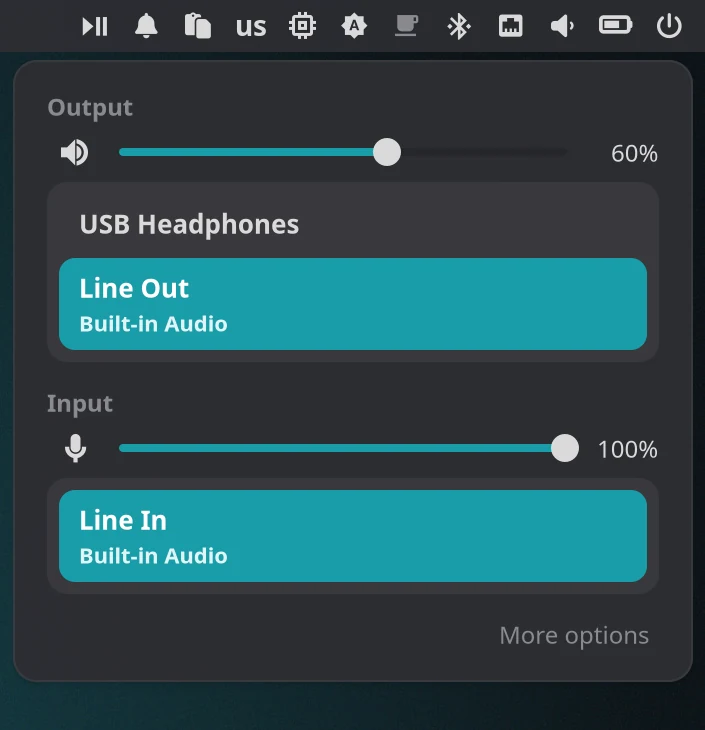
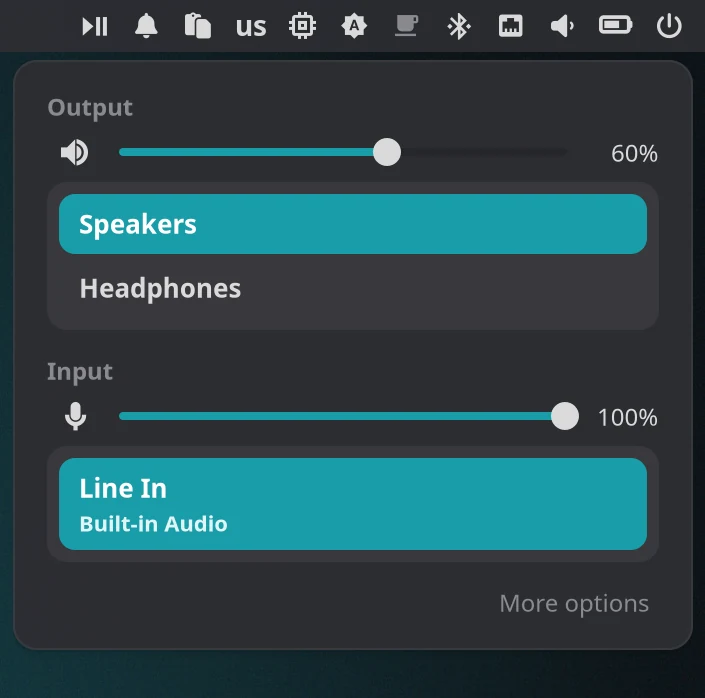
Component pages: all images as one row of equal thumbnails; card thumbnails; audio retake (#37)
On the component pages with more than one image, a big image with a small thumbnail under it read as a single image. Now every image shows the same way.

- **One row of equal thumbnails:** a page with `more_shots` shows all its images, the main one first, in a row with a caption under each.
  - Each image is fitted inside a 16:10 box, so a close-up and a full screen get the same box.
  - The row runs past the text column, up to the site's width. That gives about 280–370 px per thumbnail: three in a row on a desktop, two on a tablet, one per line on a phone.
  - Each thumbnail opens in the lightbox, whose arrows go through all of a page's images.
  - Thumbnails from images over 720 px wide are resized to 720 px JPEGs, and the link opens the original. The deploy's standard Hugo can read WebP but not write it.
  - A page with a single image stays as it was.
- **Captions:** the main image's caption is a new per-language `shot_caption`. `check-components.py` requires it in every language on a page with `more_shots`, and rejects it elsewhere. The other images use their `more_alts`. Captions are added for dock, bluetooth, lock, greeter and session-menu.
- **check-layout.py**, at 1200 and 390 px:
  - a row's thumbnails must be one size, each at least 200 px wide;
  - the Dock and login pages must have a row;
  - no page may scroll sideways.
[…]

diff --git a/layouts/components/page.html b/layouts/components/page.html
@@ -9,30 +9,39 @@
 <div class="content">
 <article class="component component--page">
 <h2 class="component__name">{{ partial "icon.html" $c.icon }} {{ $c.name }}</h2>
-{{- /* The page's own crop (crop = true: images/components/<id>.webp), else the gallery's shot */}}
+{{- /* The page's own crop (crop = true: images/components/<id>.webp), else the gallery's shot. With more_shots,
+       every image, the main one first, is an equal thumbnail with its caption, in one row; a thumbnail wider than
+       720px is a resized JPEG (the deploy's standard Hugo can read WebP but not write it), the link opens the original */}}
 {{- $main := "" }}
 {{- if $c.crop }}{{ $main = printf "images/components/%s.webp" $c.id }}{{ else if $c.shot }}{{ $main = printf "images/shots/%s.webp" $c.shot }}{{ end }}
+{{- $shots := slice }}
 {{- with $main }}
-{{- with resources.Get . }}
-{{- $img := . | fingerprint }}
+{{- with resources.Get . }}{{ $shots = $shots | append (dict "img" (. | fingerprint) "alt" $c.name "caption" $c.shot_caption) }}
+{{- else }}{{ errorf "data/components.toml: %s doesn't exist" . }}{{ end }}
+{{- end }}
+{{- range $i, $name := $c.more_shots }}
+{{- with resources.Get (printf "images/components/%s.webp" $name) }}
+{{- $alt := index $c.more_alts $i }}
+{{- $shots = $shots | append (dict "img" (. | fingerprint) "alt" $alt "caption" $alt) }}
+{{- else }}{{ errorf "data/components.toml: images/components/%s.webp doesn't exist" $name }}{{ end }}
+{{- end }}
+{{- if gt (len $shots) 1 }}
+<div class="component__shots">
+{{- range $shots }}
+{{- $thumb := .img }}{{ if gt .img.Width 720 }}{{ $thumb = .img.Resize "720x jpg q85" }}{{ end }}
+<figure class="component__thumb"><a href="{{ .img.RelPermalink }}" data-lightbox><img src="{{ $thumb.RelPermalink }}" width="{{ $thumb.Width }}" height="{{ $thumb.Height }}" alt="{{ .alt }}" decoding="async"></a><figcaption>{{ .caption }}</figcaption></figure>
+{{- end }}
+</div>
+{{- else }}
+{{- range $shots }}
+{{- $img := .img }}
 {{- /* A crop is taken at scale 2: shown at half its pixels, its real size on screen */}}
 {{- if $c.crop }}
 <a class="component__shot component__shot--crop" href="{{ $img.RelPermalink }}" data-lightbox><img src="{{ $img.RelPermalink }}" srcset="{{ $img.RelPermalink }} 2x" width="{{ div $img.Width 2 }}" height="{{ div $img.Height 2 }}" alt="{{ $c.name }}" decoding="async"></a>
 {{- else }}
 <a class="component__shot" href="{{ $img.RelPermalink }}" data-lightbox><img src="{{ $img.RelPermalink }}" width="{{ $img.Width }}" height="{{ $img.Height }}" alt="{{ $c.name }}" decoding="async"></a>
 {{- end }}
-{{- else }}{{ errorf "data/components.toml: %s doesn't exist" . }}{{ end }}
 {{- end }}
-{{- with $c.more_shots }}
-<div class="component__more">
-{{- range $i, $name := . }}
-{{- with resources.Get (printf "images/components/%s.webp" $name) }}
-{{- $img := . | fingerprint }}
-{{- $alt := index $c.more_alts $i }}
-<a href="{{ $img.RelPermalink }}" data-lightbox><img src="{{ $img.RelPermalink }}" width="{{ $img.Width }}" height="{{ $img.Height }}" alt="{{ $alt }}" title="{{ $alt }}" loading="lazy" decoding="async"></a>
-{{- else }}{{ errorf "data/components.toml: images/components/%s.webp doesn't exist" $name }}{{ end }}
-{{- end }}
-</div>
 {{- end }}
 <div class="component__body">
 {{ $.RenderString (dict "display" "block") $c.text }}

diff --git a/assets/css/site.css b/assets/css/site.css
@@ -151,10 +151,14 @@ h2 { font-weight: 600; }
 .component__keys { color: var(--ink); font-size: .85rem; }
 .component__meta { color: var(--muted); font-size: .75rem; }
 .component__shot--crop img { width: auto; max-width: 100%; }
-.component__more { display: flex; flex-wrap: wrap; gap: .5rem; margin: .5rem 0 1rem; }
-.component__more a { flex: 0 1 8rem; border: 1px solid var(--line-strong); border-radius: var(--frame); overflow: hidden; background: var(--surface); }
-.component__more a:hover { border-color: var(--line-hover); }
-.component__more img { display: block; width: 100%; height: 5.5rem; object-fit: cover; object-position: top; }
+/* A page's images in one row: wider than the text column, up to the site's width, never past the window */
+.component__shots { display: grid; grid-template-columns: repeat(auto-fill, minmax(min(100%, 280px), 1fr)); gap: .75rem;
+  width: max(100%, min(1100px, calc(100vw - 2 * var(--gutter) - 16px))); margin: 0 0 1.25rem; }
+.component__thumb { margin: 0; }
+.component__thumb a { display: block; aspect-ratio: 16 / 10; overflow: hidden; border: 1px solid var(--line-strong); border-radius: var(--frame); background: var(--surface); }
+.component__thumb a:hover { border-color: var(--line-hover); }
+.component__thumb img { display: block; width: 100%; height: 100%; object-fit: contain; }
+.component__thumb figcaption { margin-top: .4rem; color: var(--muted); font-size: .8rem; line-height: 1.4; }
 .component:not(:has(.component__shot)) { grid-template-columns: 1fr; }
 @media (max-width: 40rem) { .component { grid-template-columns: 1fr; } }
 
@@ -388,6 +392,9 @@ html.lb-open { overflow: hidden; }
 a.cgrid__name { color: var(--ink); text-decoration: underline; text-decoration-color: var(--line-strong); text-underline-offset: 3px; }
 a.cgrid__name:hover { color: var(--accent); text-decoration-color: currentColor; }
 .cgrid__keys { color: var(--ink-soft); font-size: 12px; }
+.cgrid__shot { display: block; align-self: flex-start; max-width: 100%; border: 1px solid var(--line-strong); border-radius: var(--frame); overflow: hidden; }
+.cgrid__shot:hover { border-color: var(--line-hover); }
+.cgrid__shot img { display: block; max-width: 100%; max-height: 10rem; width: auto; height: auto; }
 .crumbs { margin: 0 0 .5rem; font-size: .85rem; }
 .component--page { display: block; padding-top: 0; border-bottom: 0; }
 .component--page .component__shot { display: block; margin: 0 0 1rem; }

diff --git a/layouts/_shortcodes/components.html b/layouts/_shortcodes/components.html
@@ -1,6 +1,6 @@
 {{- /* The Components page's list: data/components.toml, by group, as the home page's grid. A card links to the
        component's page (or, with `with`, to the page it shares); a card with neither is part of
-       swaydesk-desktop, and says so. A group with a metapackage ([groups.<group>]) says so under its title. */ -}}
+       swaydesk-desktop, and says so, with its crop (crop = true) as a thumbnail. A group with a metapackage ([groups.<group>]) says so under its title. */ -}}
 {{- $page := .Page }}
 {{- $all := (partialCached "data.html" $page).components.components }}
 {{- $lang := lower $page.Language.Lang }}
@@ -23,6 +23,13 @@
 <span class="cgrid__text">{{ $t.text | markdownify }}</span>
 {{- with $t.keys }}<span class="cgrid__keys">{{ . | markdownify }}</span>{{ end }}
 {{- if not $target }}<span class="cgrid__keys">{{ i18n "comp_in_desktop" | safeHTML }}</span>{{ end }}
+{{- /* A card without a page shows its crop (crop = true) as a thumbnail, in the lightbox */}}
+{{- if and (not $target) .crop }}
+{{- with resources.Get (printf "images/components/%s.webp" .id) }}
+{{- $img := . | fingerprint }}
+<a class="cgrid__shot" href="{{ $img.RelPermalink }}" data-lightbox><img src="{{ $img.RelPermalink }}" width="{{ div $img.Width 2 }}" height="{{ div $img.Height 2 }}" alt="{{ $t.name }}" loading="lazy" decoding="async"></a>
+{{- else }}{{ errorf "data/components.toml: images/components/%s.webp doesn't exist" .id }}{{ end }}
+{{- end }}
 </li>
 {{- end }}{{ end }}
 </ul>

diff --git a/scripts/check-layout.py b/scripts/check-layout.py
@@ -6,7 +6,10 @@ per-distro sections as tabs (static/js/install.js), and every hidden panel is st
 page at 1200 and 390 px and checks that:
 - every tab panel's first block starts at the same distance from the tabs as the first panel's;
 - every copy button, in every tab panel, is as tall as the code field next to it;
-- each page reports at least two tabs and one copy block (none means the check measured nothing).
+- each page reports at least two tabs and one copy block (none means the check measured nothing);
+- a component page's row of images (component__shots) has thumbnails of one size, each at least 200px wide,
+  and the Dock and login pages, which have more_shots, have one;
+- no page scrolls sideways.
 Without pages, it checks Install and three component pages (a plain install, start_text, a multi-line start) in
 the three languages. The pages are served from a copy of <public dir> on 127.0.0.1; Chrome runs with a temporary
 HOME and no display or session bus. A missing page, a missing Chrome or a page that doesn't report is an error.
@@ -27,6 +30,9 @@ WIDTHS = (1200, 390)
 PAGES = [f"{lang}/{page}" for lang in ("pt-br", "en-us", "es")
          for page in ("install", "components/dock", "components/greeter", "components/screenshot")]
 TOLERANCE = 1  # px: rounding of fractional layout
+MIN_THUMB = 200  # px: narrower than this, a thumbnail's content can't be read
+# Pages that have more_shots, so a row of images: none found means the template or a class changed
+EXPECT_ROWS = ("components/dock", "components/greeter")
 
 MEASURE = r"""window.addEventListener("load", () => {
   const out = {tabs: [], cmds: []};
@@ -53,6 +59,13 @@ MEASURE = r"""window.addEventListener("load", () => {
     });
   });
   cmds(document);
+  // The component pages' rows of images: each thumbnail's box (its link), and whether the page scrolls sideways
+  out.rows = Array.from(document.querySelectorAll(".component__shots")).map((row) =>
+    Array.from(row.querySelectorAll(".component__thumb > a")).map((a) => {
+      const r = a.getBoundingClientRect();
+      return {w: Math.round(r.width), h: Math.round(r.height)};
+    }));
+  out.overflow = document.documentElement.scrollWidth - document.documentElement.clientWidth;
   const el = document.createElement("pre");
   el.id = "__layout";
   el.textContent = JSON.stringify(out);
@@ -86,6 +99,18 @@ def problems(page, width, data):
             if abs(tab["gap"] - first) > TOLERANCE:
                 errors.append(f"{page} @{width}: tab {tab['name']} opens {tab['gap']}px below the tabs, "
                               f"{tabs[0]['name']} {first}px")
+    rows = data.get("rows", [])
+    if page.endswith(EXPECT_ROWS) and not any(rows):
+        errors.append(f"{page} @{width}: no row of images (component__shots)")
+    for row in rows:
+        sizes = sorted({(t["w"], t["h"]) for t in row}, reverse=True)
+        if any(abs(a - c) > TOLERANCE or abs(b - d) > TOLERANCE for (a, b) in sizes for (c, d) in sizes):
+            errors.append(f"{page} @{width}: the row's thumbnails differ in size "
+                          f"({sizes[0][0]}x{sizes[0][1]} and {sizes[-1][0]}x{sizes[-1][1]})")
+        for w in sorted({t["w"] for t in row if t["w"] < MIN_THUMB}):
+            errors.append(f"{page} @{width}: a thumbnail is {w}px wide (at least {MIN_THUMB}px)")
+    if data.get("overflow", 0) > TOLERANCE:
+        errors.append(f"{page} @{width}: the page scrolls sideways ({data['overflow']}px wider than the window)")
     for cmd in data["cmds"]:
         if abs(cmd["btn"] - cmd["pre"]) > TOLERANCE:
             errors.append(f"{page} @{width}: a copy button is {cmd['btn']}px high, its field {cmd['pre']}px")

diff --git a/scripts/test_check_layout.py b/scripts/test_check_layout.py
@@ -49,13 +49,47 @@ class CheckLayoutTests(unittest.TestCase):
     def tearDown(self):
         self.tmp.cleanup()
 
-    def run_on(self, sibling="0", align="stretch", extra="", first="A", html=None):
-        page = self.root / "en-us/install"
+    def run_on(self, sibling="0", align="stretch", extra="", first="A", html=None, path="en-us/install", body=""):
+        page = self.root / path
         page.mkdir(parents=True, exist_ok=True)
         css = CSS % {"sibling": sibling, "align": align, "extra": extra}
-        (page / "index.html").write_text(html or PAGE % {"css": css, "first": first}, encoding="utf-8")
-        return subprocess.run([sys.executable, "-I", str(SCRIPT), str(self.root), "en-us/install"],
+        text = html or PAGE % {"css": css, "first": first}
+        (page / "index.html").write_text(text.replace("</body>", body + "</body>", 1), encoding="utf-8")
+        return subprocess.run([sys.executable, "-I", str(SCRIPT), str(self.root), path],
                               capture_output=True, text=True, timeout=300)
+
+    def row(self, widths, path="en-us/components/dock"):
+        # A row of images as the component pages draw it; each width is a thumbnail's CSS width
+        figures = "".join(f'<figure class="component__thumb" style="flex:none;margin:0;width:{w}"><a href="#" style="display:block;'
+                          f'height:150px"></a><figcaption>c</figcaption></figure>' for w in widths)
+        return self.run_on(path=path, body=f'<div class="component__shots" style="display:flex;flex-wrap:wrap;gap:8px">{figures}</div>')
+
+    def test_a_row_of_equal_thumbnails_passes(self):
+        result = self.row(["300px", "300px"])
+        self.assertEqual(result.returncode, 0, result.stdout + result.stderr)
+
+    def test_thumbnails_of_different_sizes_fail(self):
+        result = self.row(["300px", "220px"])
+        self.assertEqual(result.returncode, 1, result.stdout + result.stderr)
+        self.assertIn("en-us/components/dock @1200: the row's thumbnails differ in size (300x150 and 220x150)",
+                      result.stdout)
+
+    def test_a_thumbnail_too_small_to_read_fails(self):
+        result = self.row(["120px", "120px"])
+        self.assertEqual(result.returncode, 1, result.stdout + result.stderr)
+        self.assertIn("en-us/components/dock @390: a thumbnail is 120px wide (at least 200px)", result.stdout)
+
+    def test_a_page_wider_than_the_window_fails(self):
+        result = self.run_on(path="en-us/components/dock", body='<div class="component__shots">'
+                        '<figure class="component__thumb" style="width:300px"><a href="#" style="display:block;'
+                        'height:150px"></a></figure></div><div style="width:900px;height:4px"></div>')
+        self.assertEqual(result.returncode, 1, result.stdout + result.stderr)
+        self.assertIn("en-us/components/dock @390: the page scrolls sideways", result.stdout)
+
+    def test_a_component_page_expected_to_have_a_row_without_one_fails(self):
+        result = self.run_on(path="en-us/components/greeter")
+        self.assertEqual(result.returncode, 1, result.stdout + result.stderr)
+        self.assertIn("en-us/components/greeter @1200: no row of images (component__shots)", result.stdout)
 
     def test_equal_gaps_and_full_height_buttons_pass(self):
         result = self.run_on()

diff --git a/scripts/test_check_components.py b/scripts/test_check_components.py
@@ -202,14 +202,20 @@ class CheckComponentsTests(unittest.TestCase):
         result = self.run_on(component(langs=langs))
         self.assertEqual(result.returncode, 0, result.stdout + result.stderr)
 
-    def more(self, shots='["dock-menu", "dock-drag"]', alts=None, page="true", crop=""):
+    def more(self, shots='["dock-menu", "dock-drag"]', alts=None, page="true", crop="", captions=None):
         alts = alts if alts is not None else ['["Menu.", "Drag."]'] * 3
-        langs = [lang(c) + (f"  more_alts = {a}\n" if a else "") for c, a in zip(("pt-br", "en-us", "es"), alts)]
+        captions = captions if captions is not None else ['"The dock."'] * 3
+        langs = [lang(c) + (f"  more_alts = {a}\n" if a else "") + (f"  shot_caption = {s}\n" if s else "")
+                 for c, a, s in zip(("pt-br", "en-us", "es"), alts, captions)]
         extra = (f"more_shots = {shots}\n" if shots else "") + crop
         return component(page=page, extra=extra, langs=langs)
 
     def test_a_crop_and_more_shots_pass(self):
         result = self.run_on(self.more(crop="crop = true\n"))
+        self.assertEqual(result.returncode, 0, result.stdout + result.stderr)
+
+    def test_a_crop_on_a_card_without_a_page_passes(self):
+        result = self.run_on(component(page="false", extra="crop = true\n"))
         self.assertEqual(result.returncode, 0, result.stdout + result.stderr)
 
     def test_a_crop_needs_its_file(self):
@@ -242,6 +248,17 @@ class CheckComponentsTests(unittest.TestCase):
 
     def test_more_alts_without_more_shots_fail(self):
         self.assert_fails_with(self.more(shots=""), "dock: pt-br more_alts without more_shots")
+
+    def test_more_shots_need_a_caption_for_the_main_image_in_every_language(self):
+        self.assert_fails_with(self.more(captions=['"O dock."', "", '"El dock."']),
+                               "dock: en-us shot_caption missing (the main image's caption, needed with more_shots)")
+
+    def test_the_caption_must_be_a_non_empty_string(self):
+        self.assert_fails_with(self.more(captions=['""'] * 3), "dock: pt-br shot_caption must be a non-empty string")
+
+    def test_a_caption_without_more_shots_fails(self):
+        langs = [lang(c) + '  shot_caption = "The dock."\n' for c in ("pt-br", "en-us", "es")]
+        self.assert_fails_with(component(langs=langs), "dock: pt-br shot_caption without more_shots")
 
     def test_more_shots_on_a_card_without_a_page_fail(self):
         self.assert_fails_with(self.more(page="false"), "dock: more_shots on a card without a page")

diff --git a/scripts/check-components.py b/scripts/check-components.py
@@ -10,8 +10,8 @@ per-language PAGE_NOTES), since the list shows only its name, text and keys; its
 page. `waybar` is only for the bar, as swaydesk-<name>; `unit` needs a start that includes a snippet; a start_note
 needs a start; start_text (what to do when there's nothing to add to the Sway config) replaces start, in every
 language or none. `crop = true` shows the page's own image, assets/images/components/<id>.webp, which must
-exist; `more_shots` (at most four names of files in that folder, only on a page) adds thumbnails, each with a
-`more_alts` text in every language. Each [groups.<group>] is a known group with a text in every language. A
+exist (on a card without a page, as a thumbnail in the list); `more_shots` (at most four names of files in that folder, only on a page) adds thumbnails, each with a
+`more_alts` text in every language, and the main image's `shot_caption` in every language. Each [groups.<group>] is a known group with a text in every language. A
 missing, unreadable or malformed file is an error, never a pass.
 """
 import pathlib
@@ -89,6 +89,13 @@ def check_component(root, c, number, icons, pages, seen, icon_of):
         if not has_page:
             errors += [f"{cid}: {code} {f} on a card without a page" for f in PAGE_NOTES if table.get(f)]
         errors += [f"{cid}: {code} {f} must be a string" for f in PAGE_NOTES if not isinstance(table.get(f, ""), str)]
+        caption = table.get("shot_caption")
+        if caption is not None and not text(caption):
+            errors.append(f"{cid}: {code} shot_caption must be a non-empty string")
+        elif caption is not None and not isinstance(c.get("more_shots"), list):
+            errors.append(f"{cid}: {code} shot_caption without more_shots")
+        elif caption is None and isinstance(c.get("more_shots"), list):
+            errors.append(f"{cid}: {code} shot_caption missing (the main image's caption, needed with more_shots)")
         alts = table.get("more_alts")
         if alts is not None and not (isinstance(alts, list) and all(text(a) for a in alts)):
             errors.append(f"{cid}: {code} more_alts must be non-empty strings")
